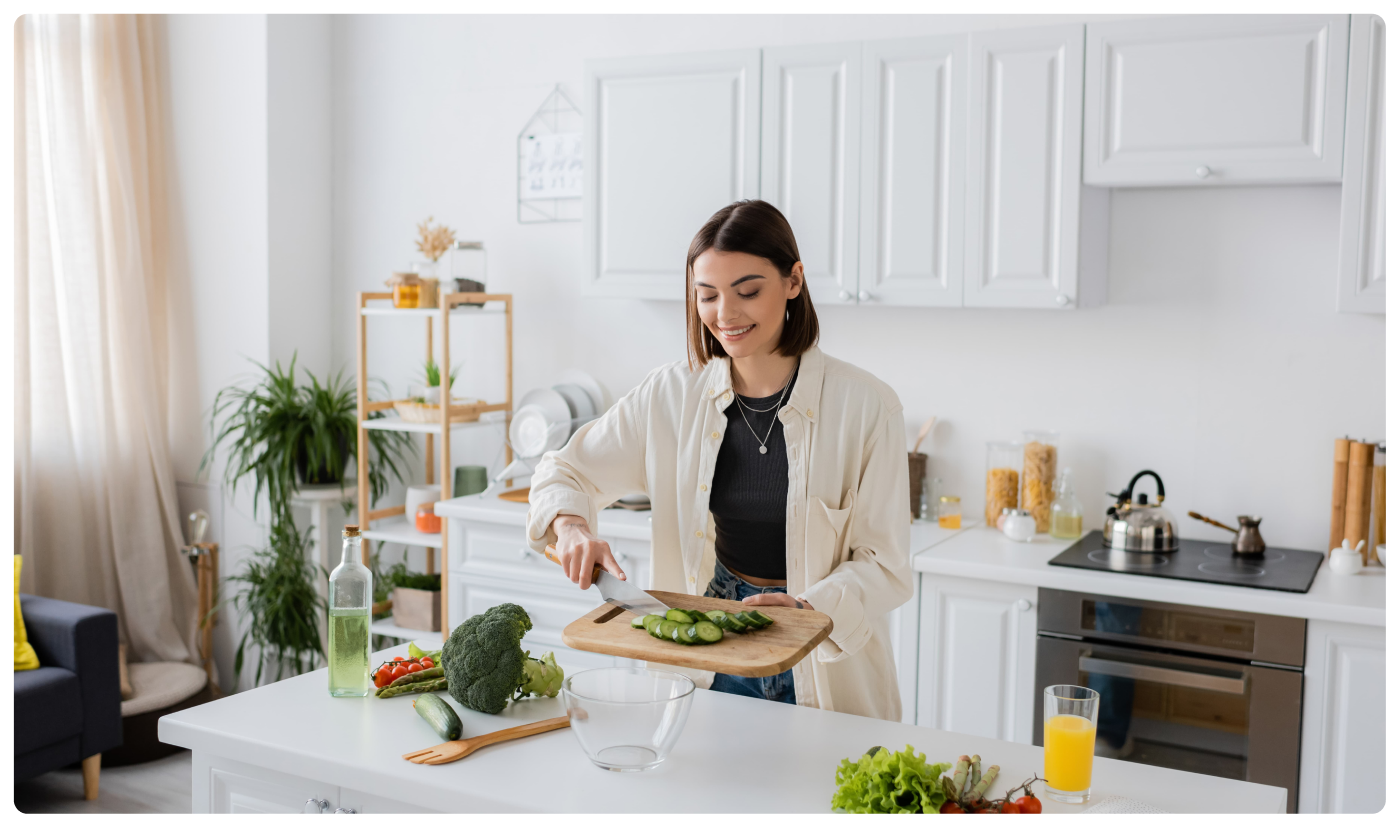
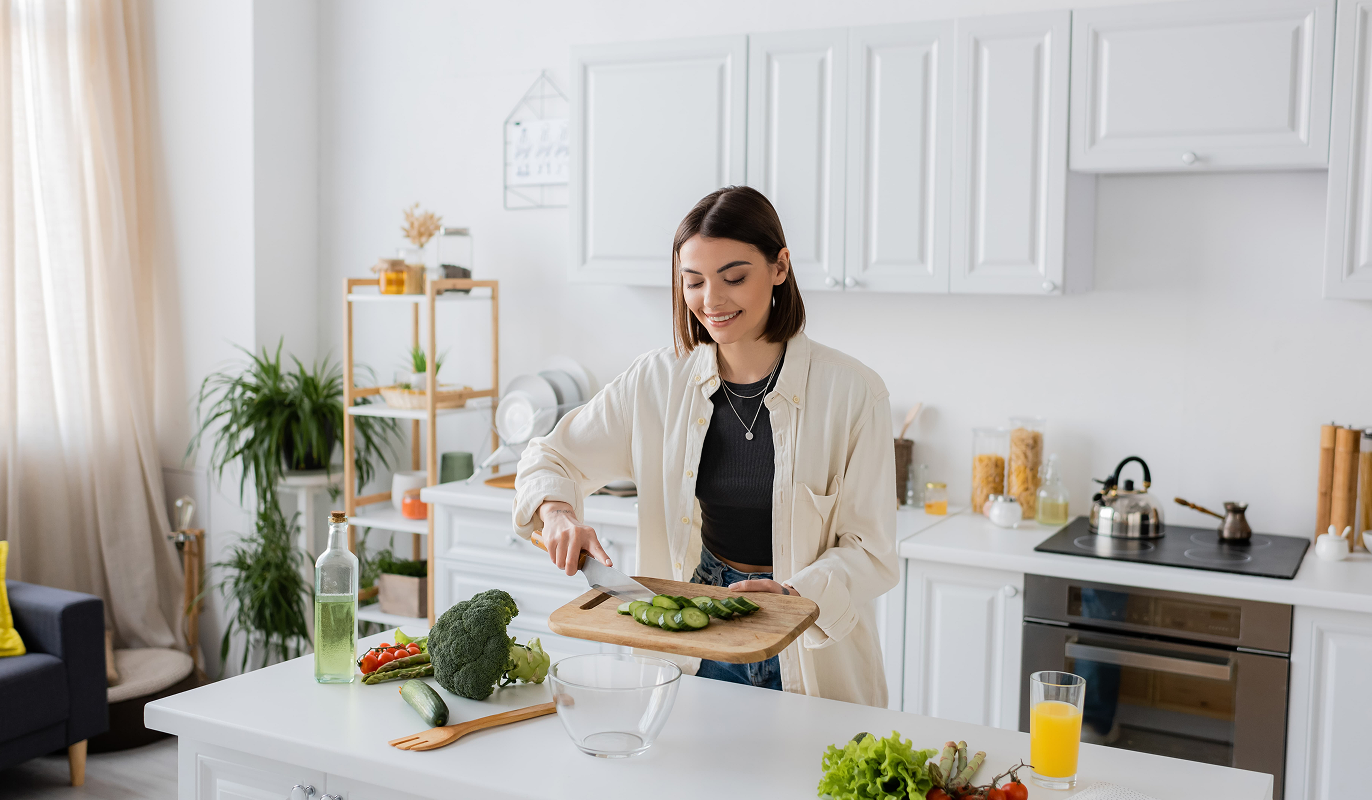
feat(SCRUM-23): Finished Header and Footer components, implemented basic routing

diff --git a/src/components/organisms/Hero/HeroHome.scss b/src/components/organisms/Hero/HeroHome.scss
@@ -1,6 +1,11 @@
 @use "../../../utilities/styles/variables.scss" as *;
 
 .heroHome-block {
+    .test {
+        position: relative;
+        width: 100%;
+    }
+
     // .herHome-block__title
     &__title {
         font-size: 52px;
@@ -41,8 +46,19 @@
         height: 60px;
         margin-bottom: 40px;
     }
+    &__image {
+        border: 3.5px solid #fff;
+    }
+    &__line {
+        position: absolute;
+        top: -70%;
+        right: -12%;
+        width: 185%;
+        height: 259%;
+        max-width: 200%;
+        z-index: -1;
+    }
 }
-
 @media (min-width: 376px) {
     .heroHome-block {
         &__title {
@@ -53,10 +69,13 @@
                 height: 29px;
             }
         }
+        &__image {
+            border: 7px solid #fff;
+        }
     }
 }
 
-@media (min-width: 769px) {
+@media (min-width: 768px) {
     .heroHome-block {
         display: flex;
         flex-direction: column;
@@ -79,6 +98,30 @@
         }
         &__button {
             margin-bottom: 80px;
+        }
+        &__image {
+            max-height: 550px;
+            width: 100%;
+            border: 12px solid #fff;
+            object-fit: cover;
+            object-position: 60% 40%;
+        }
+        &__line {
+            width: 126%;
+            height: 206%;
+        }
+    }
+}
+
+@media (min-width: 1440px) {
+    .heroHome-block {
+        &__line {
+            top: -60%;
+            right: -20%;
+            width: 150%;
+            height: 250%;
+            min-width: 1550px;
+            max-width: 500%;
         }
     }
 }

diff --git a/src/components/organisms/Hero/HeroHome.tsx b/src/components/organisms/Hero/HeroHome.tsx
@@ -1,27 +1,34 @@
-import { MainButton } from '../../atoms/buttons/MainButton/MainButton';
-import './HeroHome.scss'
+import { MainButton } from "../../atoms/buttons/MainButton/MainButton";
+import "./HeroHome.scss";
 
 type HeroHomeProps = {
-    className?: string;
-}
+  className?: string;
+};
 
-export const HeroHome: React.FC<HeroHomeProps> = ({ className }) => {
-    return (
-      <section className={`heroHome-block ${className}`}>
-        <h2 className="heroHome-block__title title">
-          <span className="heroHome-block__title__highlite">Healthy</span> meals, zero
-          fuss
-        </h2>
-        <p className="heroHome-block__text text">
-          Discover eight quick, whole-food recipes that you can cook tonight—no
-          processed junk, no guesswork.
-        </p>
-        <MainButton text="Start exploring" className="heroHome-block__button" />
+export const HeroHome: React.FC<HeroHomeProps> = ({ className = "" }) => {
+  return (
+    <section className={`heroHome-block ${className}`}>
+      <h2 className="heroHome-block__title title">
+        <span className="heroHome-block__title__highlite">Healthy</span> meals,
+        zero fuss
+      </h2>
+      <p className="heroHome-block__text text">
+        Discover eight quick, whole-food recipes that you can cook tonight—no
+        processed junk, no guesswork.
+      </p>
+      <MainButton text="Start exploring" className="heroHome-block__button" />
+      <div className="test">
         <img
           src="/img/hero_home.png"
           alt=""
           className="heroHome-block__image"
         />
-      </section>
-    );
-}
+        <img
+          src="/icons/hero_home_line.svg"
+          alt=""
+          className="heroHome-block__line"
+        />
+      </div>
+    </section>
+  );
+};

diff --git a/src/index.scss b/src/index.scss
@@ -1,17 +1,29 @@
-@use './utilities/styles/reset-styles.scss' as *;
-@use './utilities/styles/variables.scss' as *;
+@use "./utilities/styles/reset-styles.scss" as *;
+@use "./utilities/styles/variables.scss" as *;
 
 @font-face {
-    font-family: 'Recoleta';
-    src: url('./assets/fonts/Recoleta-SemiBold.woff2');
+    font-family: "Recoleta";
+    src: url("./assets/fonts/Recoleta-SemiBold.woff2");
     font-weight: 600;
     font-style: normal;
 }
 
-body{ 
-    background-color: #F6F5F1;
+#root {
+    height: 100%;
+    display: flex;
+    flex-direction: column;
+    overflow-x: hidden;
 }
 
+body {
+    background-color: #f6f5f1;
+}
+
+.container {
+    margin: 0 auto;
+    padding: 0 16px;
+    width: 100%;
+}
 
 .title {
     font-family: Nunito;
@@ -21,4 +33,20 @@ body{
 .text {
     font-family: "Nunito Sans";
     color: $text-color;
+}
+
+@media (min-width: 376px) {
+    .container {
+    }
+}
+@media (min-width: 769px) {
+    .container {
+        padding: 0 32px;
+    }
+}
+@media (min-width: 1440px) {
+    .container {
+        padding: 0 124px;
+        max-width: 1440px;
+    }
 }

diff --git a/src/components/organisms/Footer/Footer.tsx b/src/components/organisms/Footer/Footer.tsx
@@ -5,16 +5,18 @@ import "./Footer.scss";
 
 export const Footer: React.FC = () => {
   return (
-    <footer className="footer-block">
-      <p className="footer-block__text text">
-        Made with <span className="footer-block__text__love">Love</span> and{" "}
-        <span className="footer-block__text__care">Care</span>
-      </p>
-      <div className="footer-block__icons">
-        <LinkedInIcon className="footer-block__icon" />
-        <GitHubIcon className="footer-block__icon" />
-        <TelegramIcon className="footer-block__icon" />
-      </div>
-    </footer>
+    <div className="container">
+      <footer className="footer-block">
+        <p className="footer-block__text text">
+          Made with <span className="footer-block__text__love">Love</span> and{" "}
+          <span className="footer-block__text__care">Care</span>
+        </p>
+        <div className="footer-block__icons">
+          <LinkedInIcon className="footer-block__icon" />
+          <GitHubIcon className="footer-block__icon" />
+          <TelegramIcon className="footer-block__icon" />
+        </div>
+      </footer>
+    </div>
   );
 };

diff --git a/src/components/organisms/Header/Header.tsx b/src/components/organisms/Header/Header.tsx
@@ -1,16 +1,27 @@
+import { useState } from 'react'
 import { Burger } from '../../atoms/buttons/Burger/Burger'
 import { Navbar } from '../../molecules/Navbar/Navbar'
 import './Header.scss'
+import cn from 'classnames'
+import { NavLink } from 'react-router-dom'
 
 export const Header: React.FC = () => {
+    const [isMenuActive, setIsMenuActive] = useState(false);
+
     return (
       <header className="header-block">
-        <a href='#' className="header-block__logo">
+        <NavLink to='/' className="header-block__logo">
           <img src="/logo.svg" alt="" className="header-logo__image" />
           <h1 className="header-logo__text">Healthy Recipe Finder</h1>
-        </a>
-        <Navbar className="header-block__navbar active" />
-        <Burger className="header-block__burger" />
+        </NavLink>
+        <Navbar
+          className={cn("header-block__navbar", { active: isMenuActive })}
+          onClose={() => setIsMenuActive(false)}
+        />
+        <Burger
+          className={cn("header-block__burger", {active: isMenuActive})}
+          onClick={() => setIsMenuActive((prev) => !prev)}
+        />
       </header>
     );
 }

diff --git a/src/components/pages/HomePage/HomePage.scss b/src/components/pages/HomePage/HomePage.scss
@@ -1,0 +1,19 @@
+.container {
+    padding-top: 120px;
+    display: flex;
+    flex-direction: column;
+    gap: 64px;
+}
+
+@media (min-width: 376px){
+    .container {
+        gap: 80px;
+    }
+}
+
+@media (min-width: 769px){
+    .container {
+        padding-top: 172px;
+        gap: 85px;
+    }
+}

diff --git a/src/main.tsx b/src/main.tsx
@@ -3,9 +3,21 @@ import { createRoot } from 'react-dom/client'
 import 'normalize.css'
 import './index.scss'
 import App from './App.tsx'
+import { BrowserRouter, Route, Routes } from 'react-router-dom'
+import { HomePage } from './components/pages/HomePage/HomePage.tsx'
+import { AboutPage } from './components/pages/AboutPage/AboutPage.tsx'
+import { RecipesPage } from './components/pages/RecipesPage/RecipesPage.tsx'
 
-createRoot(document.getElementById('root')!).render(
+createRoot(document.getElementById("root")!).render(
   <StrictMode>
-    <App />
+    <BrowserRouter>
+      <Routes>
+        <Route element={<App />}>
+          <Route path="/" element={<HomePage />} />
+          <Route path="/about" element={<AboutPage />} />
+          <Route path="/recipes" element={<RecipesPage />} />
+        </Route>
+      </Routes>
+    </BrowserRouter>
   </StrictMode>,
-)
+);

diff --git a/src/components/pages/HomePage/HomePage.tsx b/src/components/pages/HomePage/HomePage.tsx
@@ -1,0 +1,17 @@
+import { CallToAction } from "../../organisms/CallToAction/CallToAction";
+import { Features } from "../../organisms/Features/Features";
+import { HeroHome } from "../../organisms/Hero/HeroHome";
+import { Info } from "../../organisms/Info/Info";
+import "./HomePage.scss";
+
+export const HomePage: React.FC = () => {
+
+  return (
+    <div className="container">
+      <HeroHome />
+      <Features title="What you’ll get" />
+      <Info />
+      <CallToAction />
+    </div>
+  );
+};

diff --git a/src/components/molecules/Navbar/Navbar.tsx b/src/components/molecules/Navbar/Navbar.tsx
@@ -1,20 +1,27 @@
+import { NavLink } from "react-router-dom";
 import { NAV_ITEMS } from "../../../utilities/constants";
 import { MainButton } from "../../atoms/buttons/MainButton/MainButton";
 import "./Navbar.scss";
 
 type NavbarProps = {
+    onClose: () => void;
   className?: string;
 };
 
-export const Navbar: React.FC<NavbarProps> = ({ className = "" }) => {
+export const Navbar: React.FC<NavbarProps> = ({onClose, className = "" }) => {
   return (
     <nav className={`navbar ${className}`}>
       <div className="navbar__links">
         {NAV_ITEMS.map((item) => {
           return (
-            <a href={item.path} className="navbar__link title" key={item.text}>
+            <NavLink
+              to={item.path}
+              className="navbar__link title"
+              key={item.text}
+              onClick={onClose}
+            >
               {item.text}
-            </a>
+            </NavLink>
           );
         })}
       </div>

diff --git a/src/App.scss b/src/App.scss
@@ -1,3 +1,13 @@
+html, body, #root {
+    height: 100%;
+}
+
 body {
-    padding: 16px;
+    display: flex;
+    flex-direction: column;
+    min-height: 100vh;
+}
+
+main {
+    flex: 1;
 }

diff --git a/src/App.tsx b/src/App.tsx
@@ -1,11 +1,17 @@
+import { Outlet } from 'react-router-dom';
 import './App.scss'
 import { Footer } from './components/organisms/Footer/Footer';
+import { Header } from './components/organisms/Header/Header';
 
 function App() {
 
   return (
     <>
-        <Footer />
+      <Header />
+      <main>
+        <Outlet />
+      </main>
+      <Footer />
     </>
   );
 }

diff --git a/src/components/atoms/icons/GitHubIcon.tsx b/src/components/atoms/icons/GitHubIcon.tsx
@@ -1,9 +1,14 @@
 import { GitHubLogoIcon } from "@radix-ui/react-icons";
+import { Link } from "react-router-dom";
 
 type GitHubIconProps = {
   className?: string;
 };
 
 export const GitHubIcon: React.FC<GitHubIconProps> = ({ className = "" }) => {
-  return <GitHubLogoIcon className={className}/>;
+  return (
+    <Link to="https://github.com/Maevalar" target="_blank">
+      <GitHubLogoIcon className={className} />
+    </Link>
+  );
 };